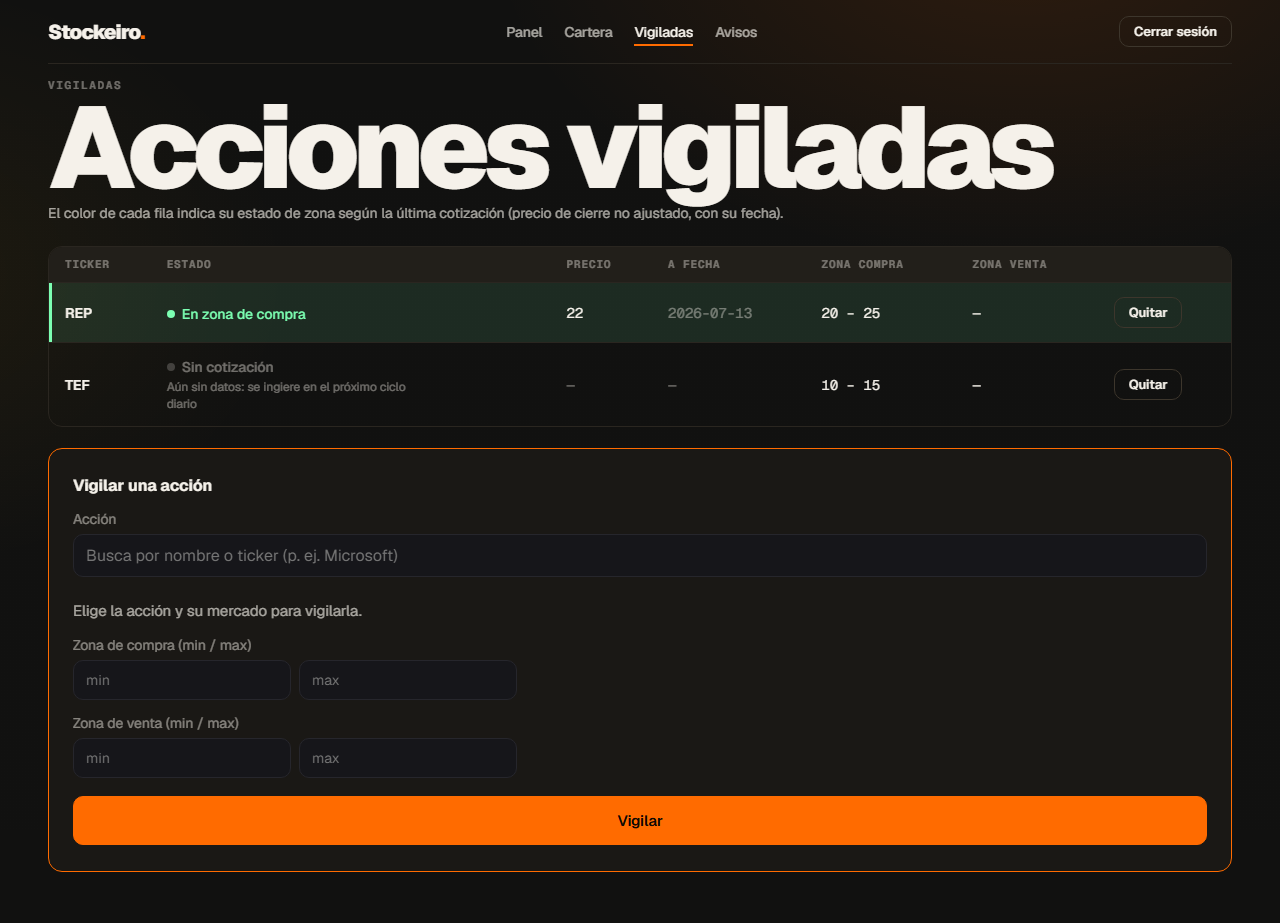
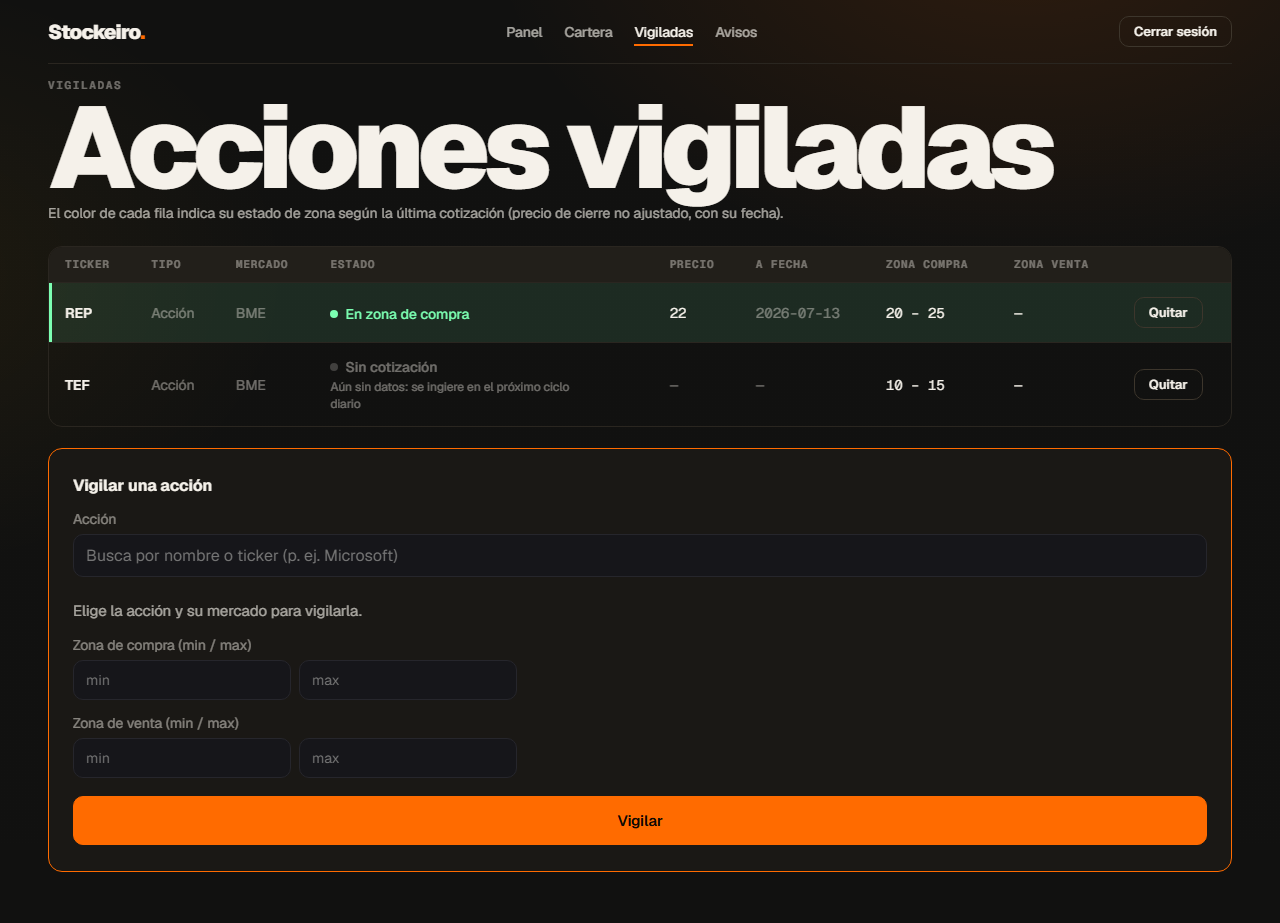
test(SPEC-029): e2e — el REIT se encuentra, se elige y llega a la tabla con su tipo
Cinco e2e sobre el catálogo fake propio de esta spec (ORC, LX, UPWK, IWDA como
candidatos y TSCO@XLON sembrado en los DESCARTES, porque el descarte por mercado
ocurre en el adaptador y el fake tiene que poder reproducirlo):

- CA-12: «orchid island capital» y «lexinfintech» —las dos búsquedas que el humano
  reportó como «Sin resultados»— devuelven candidato, y cada fila dice su tipo
  (REIT / ADR / Acción / ETF) junto al mercado y la divisa.
- CA-10: «no existe» y «existe pero no lo cubrimos» son dos `data-testid` distintos
  y cada test asserta la AUSENCIA del otro (patrón de SPEC-016 CA-3). El descarte
  nombra el mercado (XLON) y no filtra texto crudo del proveedor.
- CA-13/CA-14/CA-18: se elige el REIT, se le ponen zonas y se guarda; la fila
  aparece con tipo y mercado, y el mercado que se leyó en el buscador es el MISMO
  texto que se ve en la tabla — la incoherencia «NASDAQ en la tabla / XNGS en el
  buscador» queda cerrada por construcción.
- CA-18: el mismo componente en /cartera no regresa.

Las capturas de otras specs se regeneran porque /vigiladas tiene dos columnas más:
reflejan la app tal como está ahora, no hay cambio de comportamiento en ellas.

35/35 e2e en verde.

Refs: SPEC-029

diff --git a/tests/e2e/buscador-instrumentos.spec.ts b/tests/e2e/buscador-instrumentos.spec.ts
@@ -1,0 +1,152 @@
+import { test, expect, type Page } from '@playwright/test';
+
+/**
+ * SPEC-029 — el buscador ofrece cualquier instrumento del mercado soportado, dice de
+ * qué tipo es y por qué descarta. Es el defecto que el humano reportó en producción
+ * el 2026-08-18: buscó «orchid island capital» y «lexinfintech» en /vigiladas y la
+ * app dijo «Sin resultados», cuando las dos existen y cotizan en mercados que
+ * cubrimos (ORC@XNYS es un REIT, LX@XNAS un ADR).
+ *
+ * Corre contra el catálogo fake propio de esta spec (`E2E_FAKE_SYMBOL_SEARCH=1`):
+ * `ORC`, `LX`, `UPWK`, `IWDA` como candidatos y `TSCO`@`XLON` sembrado en la lista
+ * de DESCARTES, porque el descarte por mercado ocurre en el adaptador y el fake
+ * tiene que poder reproducirlo. Ninguno de los cinco lo usa otra spec.
+ */
+const SHOTS = '_qa/SPEC-029';
+const PWD = 'clave-secreta-123';
+
+async function registrarYEntrar(page: Page, email: string) {
+  await page.goto('/register');
+  await page.fill('input[name="email"]', email);
+  await page.fill('input[name="password"]', PWD);
+  await page.click('button[type="submit"]');
+  await page.waitForURL('**/dashboard');
+}
+
+const buscador = (page: Page) => page.locator('form', { hasText: 'Vigilar una acción' });
+
+test('SPEC-029 CA-12: el buscador ofrece REIT, ADR, acción y ETF, y dice de qué tipo es cada uno', async ({ page }) => {
+  await registrarYEntrar(page, 'spec029-tipos@example.com');
+  await page.goto('/vigiladas');
+  const form = buscador(page);
+
+  // El caso reportado, tal cual lo tecleó el humano.
+  await form.locator('.symbol-search-input').fill('orchid island capital');
+  const orc = form.locator('.symbol-result', { hasText: 'ORC' }).first();
+  await expect(orc).toBeVisible(); // antes: «Sin resultados para «orchid island capital».»
+  await expect(orc).toContainText('REIT'); // se lee el tipo ANTES de elegirlo
+  await expect(orc).toContainText('NYSE'); // y el mercado, con nombre de dominio
+  await expect(form.locator('[data-testid="search-empty"]')).toHaveCount(0);
+  await page.screenshot({ path: `${SHOTS}/ca12-reit-en-el-buscador.png`, fullPage: true });
+
+  await form.locator('.symbol-search-input').fill('lexinfintech');
+  const lx = form.locator('.symbol-result', { hasText: 'LX' }).first();
+  await expect(lx).toBeVisible();
+  await expect(lx).toContainText('ADR'); // «American Depositary Receipt» traducido
+  await expect(lx).toContainText('NASDAQ'); // XNAS, no «XNGS» ni el rótulo del proveedor
+
+  // No regresión: la acción común sigue apareciendo, y ahora dice que es una acción.
+  await form.locator('.symbol-search-input').fill('upwork');
+  const upwk = form.locator('.symbol-result', { hasText: 'UPWK' }).first();
+  await expect(upwk).toBeVisible();
+  await expect(upwk).toContainText('Acción');
+
+  // CA-4: el ETF entra, y eso es querido (invierte CA-2 de SPEC-008, por ADR-020).
+  await form.locator('.symbol-search-input').fill('iShares Core MSCI World');
+  const iwda = form.locator('.symbol-result', { hasText: 'IWDA' }).first();
+  await expect(iwda).toBeVisible();
+  await expect(iwda).toContainText('ETF');
+  await expect(iwda).toContainText('Euronext Ámsterdam');
+});
+
+test('SPEC-029 CA-10: «no existe» y «existe pero no lo cubrimos» son dos mensajes distintos', async ({ page }) => {
+  await registrarYEntrar(page, 'spec029-descarte@example.com');
+  await page.goto('/vigiladas');
+  const form = buscador(page);
+
+  // (a) No existe: no hay candidatos y tampoco descartes.
+  await form.locator('.symbol-search-input').fill('zzzzznoexisteestevalor');
+  const vacio = form.locator('[data-testid="search-empty"]');
+  await expect(vacio).toBeVisible();
+  await expect(vacio).toContainText('No hemos encontrado');
+  await expect(form.locator('[data-testid="search-discarded"]')).toHaveCount(0); // ausencia del otro
+  await page.screenshot({ path: `${SHOTS}/ca10-no-existe.png`, fullPage: true });
+
+  // (b) Existe, pero está en un mercado que no cubrimos: se NOMBRA el mercado.
+  await form.locator('.symbol-search-input').fill('tesco');
+  const descartado = form.locator('[data-testid="search-discarded"]');
+  await expect(descartado).toBeVisible();
+  await expect(descartado).toContainText('Existe, pero no lo cubrimos');
+  await expect(descartado).toContainText('TSCO');
+  await expect(descartado).toContainText('mercado que todavía no cubrimos');
+  await expect(descartado).toContainText('XLON'); // qué mercado es, para que pueda entenderlo
+  await expect(form.locator('[data-testid="search-empty"]')).toHaveCount(0); // ausencia del otro
+  // El texto crudo del proveedor no llega a la UI (aserto negativo, SPEC-016 CA-1).
+  await expect(descartado).not.toContainText(/mic_code|instrument_type|Common Stock/);
+  await page.screenshot({ path: `${SHOTS}/ca10-descartado-por-mercado.png`, fullPage: true });
+});
+
+test('SPEC-029 CA-13/CA-14/CA-18: vigilar un REIT lo deja en la tabla con su tipo y su mercado', async ({ page }) => {
+  await registrarYEntrar(page, 'spec029-flujo@example.com');
+  await page.goto('/vigiladas');
+  const form = buscador(page);
+
+  await form.locator('.symbol-search-input').fill('orchid island');
+  const candidato = form.locator('.symbol-result', { hasText: 'ORC' }).first();
+  // Lo que el usuario LEE al elegir: tiene que ser el MISMO texto que verá en la tabla.
+  const mercadoEnElBuscador = (await candidato.locator('[data-testid="result-market"]').innerText()).trim();
+  const tipoEnElBuscador = (await candidato.locator('[data-testid="result-type"]').innerText()).trim();
+  expect(mercadoEnElBuscador).toBe('NYSE');
+  expect(tipoEnElBuscador).toBe('REIT');
+
+  await candidato.click();
+  await expect(form.locator('.symbol-chip-tk')).toContainText('ORC');
+  await form.locator('input[name="buyMin"]').fill('7');
+  await form.locator('input[name="buyMax"]').fill('8');
+  await form.locator('button[type="submit"]').click();
+
+  const fila = page.locator('tr', { hasText: 'ORC' });
+  await expect(fila).toBeVisible();
+  await expect(fila.locator('[data-testid="row-type"]')).toHaveText(tipoEnElBuscador);
+  await expect(fila.locator('[data-testid="row-market"]')).toHaveText(mercadoEnElBuscador);
+  // Sin pantalla de error: el formulario no rechazó nada y la tabla se pintó entera.
+  await expect(page.locator('.auth-error')).toHaveCount(0);
+  await expect(page.locator('table.data-table')).toBeVisible();
+  await page.screenshot({ path: `${SHOTS}/ca18-reit-vigilado-con-tipo-y-mercado.png`, fullPage: true });
+});
+
+test('SPEC-029 CA-14: dos vigiladas del mismo ticker en mercados distintos dejan de verse iguales', async ({ page }) => {
+  await registrarYEntrar(page, 'spec029-dos-mercados@example.com');
+  await page.goto('/vigiladas');
+  const form = buscador(page);
+
+  // La distinción de DOS FILAS DEL MISMO TICKER se verifica sobre la proyección
+  // (`tests/symbol-instrument-type.test.ts`, CA-14), con dos símbolos sembrados: así lo
+  // pide la spec, y así no hay que tocar el catálogo E2E compartido. Lo que se
+  // comprueba AQUÍ, en el navegador, es que las dos celdas nuevas se pintan por fila y
+  // llevan el valor de SU símbolo, no uno repetido ni el de la primera fila.
+  for (const [q, tk] of [['orchid island', 'ORC'], ['lexinfintech', 'LX']] as const) {
+    await form.locator('.symbol-search-input').fill(q);
+    await form.locator('.symbol-result', { hasText: tk }).first().click();
+    await expect(form.locator('.symbol-chip-tk')).toContainText(tk);
+    await form.locator('button[type="submit"]').click();
+    await expect(page.locator('tr', { hasText: tk })).toBeVisible();
+  }
+
+  const mercados = await page.locator('tbody [data-testid="row-market"]').allInnerTexts();
+  expect(mercados.map((m) => m.trim()).sort()).toEqual(['NASDAQ', 'NYSE']);
+  const tipos = await page.locator('tbody [data-testid="row-type"]').allInnerTexts();
+  expect(tipos.map((t) => t.trim()).sort()).toEqual(['ADR', 'REIT']);
+});
+
+test('SPEC-029 CA-18: el mismo buscador en /cartera no regresa', async ({ page }) => {
+  await registrarYEntrar(page, 'spec029-cartera@example.com');
+  await page.goto('/cartera');
+
+  const form = page.locator('form', { hasText: 'Registrar compra' });
+  await form.locator('.symbol-search-input').fill('orchid island');
+  const orc = form.locator('.symbol-result', { hasText: 'ORC' }).first();
+  await expect(orc).toBeVisible();
+  await expect(orc).toContainText('REIT');
+  await expect(orc).toContainText('NYSE');
+});
